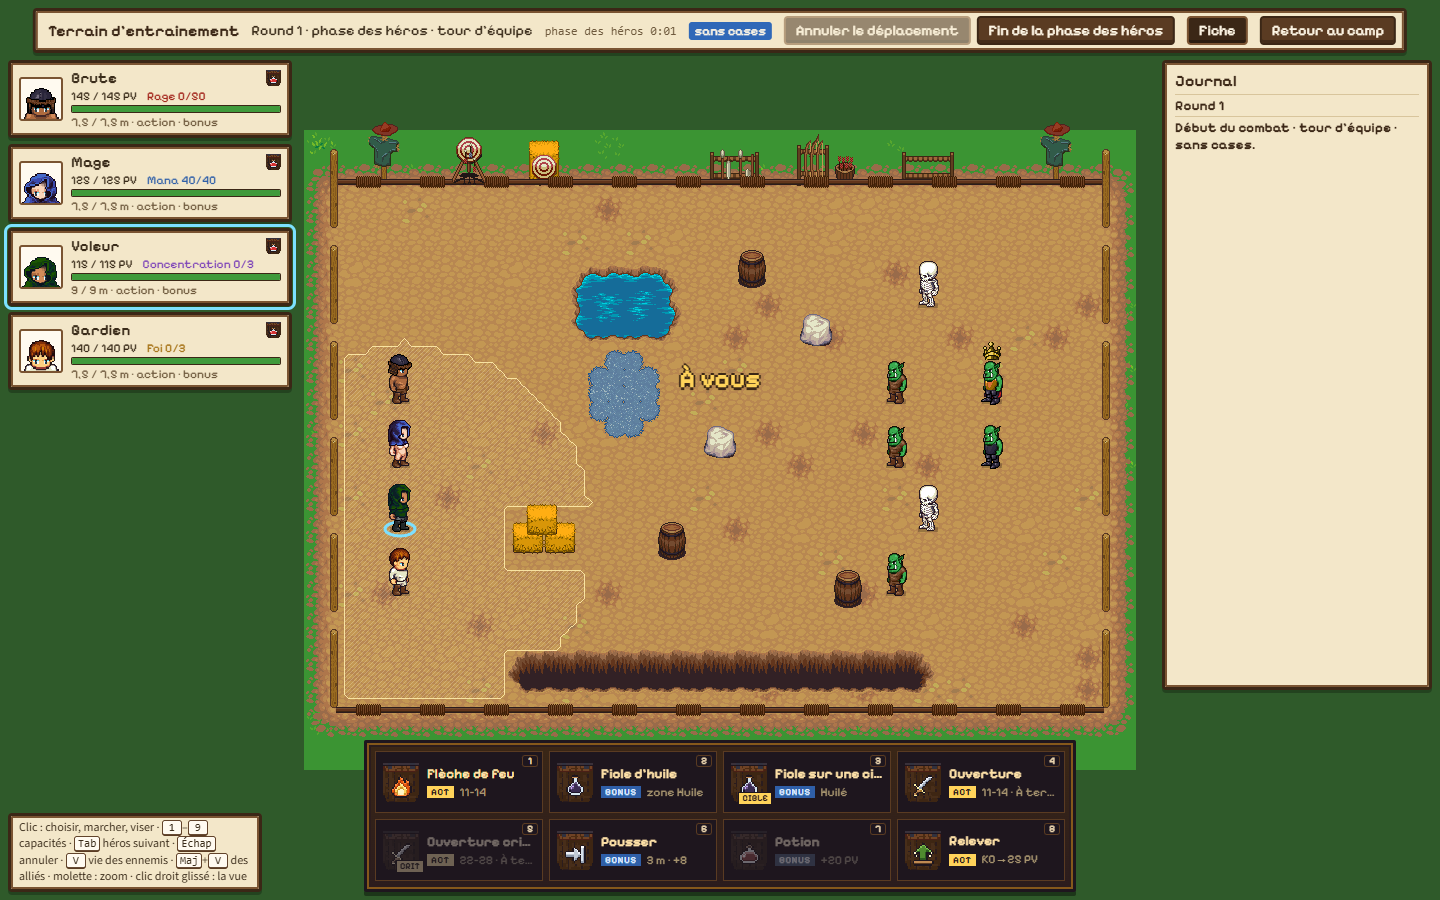
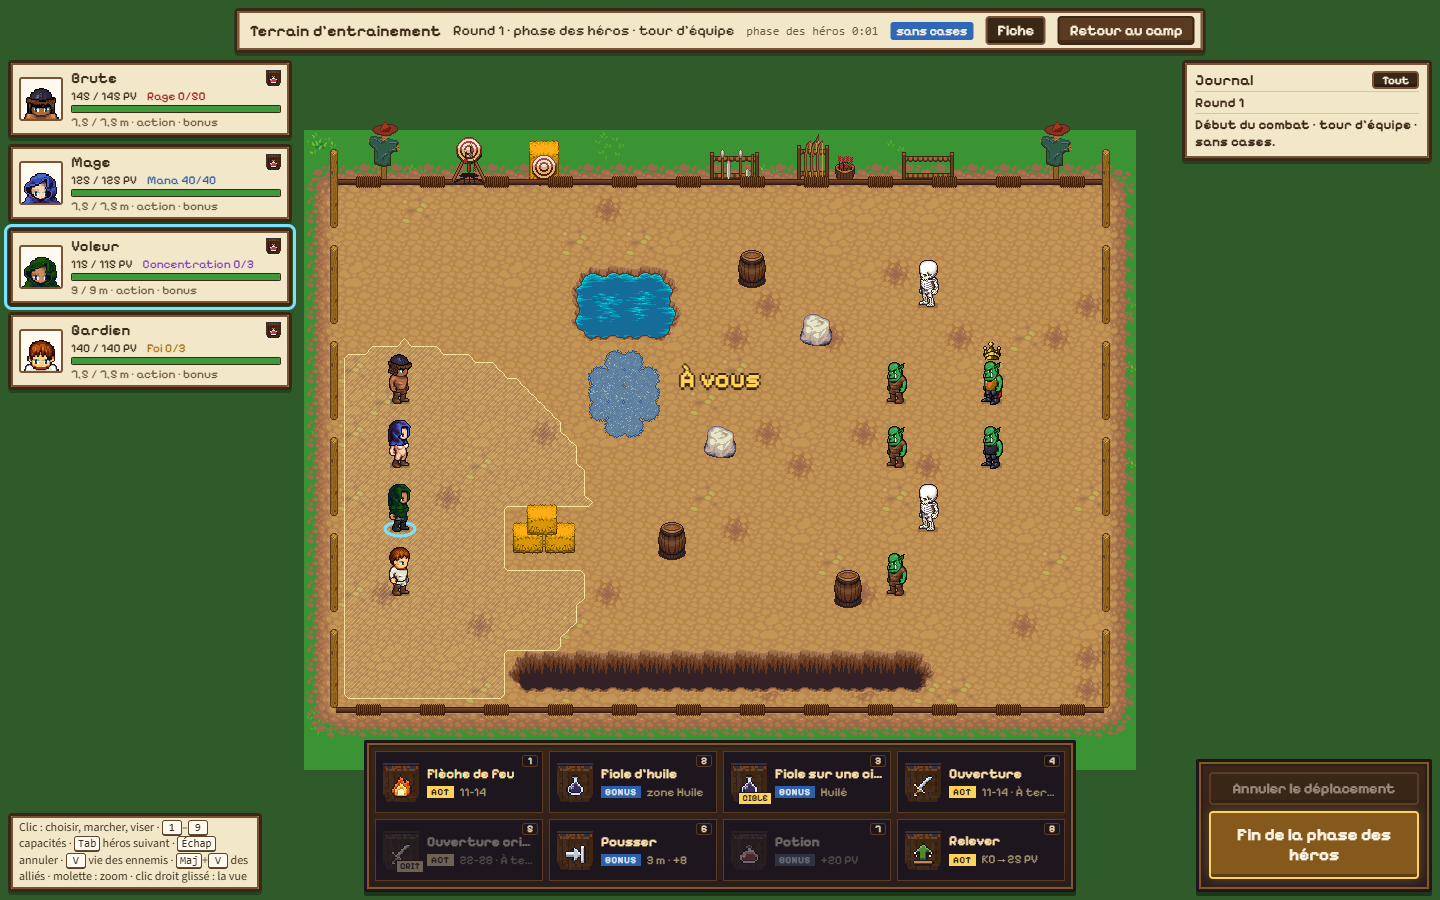
UI de combat : la fin de la phase en bas à droite, un journal plus court
« Fin de la phase des héros » (« Je suis prêt » à plusieurs) et « Annuler le
déplacement » quittent le bandeau pour un coin en bois sombre, en bas à
droite. Le journal, en haut à droite, ne montre que ses 6 dernières lignes ;
« Tout » le déplie. Captures refaites.

diff --git a/src/entrainement/interface.js b/src/entrainement/interface.js
@@ -56,14 +56,19 @@ function construire() {
     dom.etat = el('span', { class: 'etat-terrain' }, 'Prêt'),
     dom.chrono = el('span', { class: 'chrono' }),
     el('span', { class: 'sans-cases', title: 'FIGHT_RULES.md, « On trial » : chaque classe a une distance max par tour' }, 'sans cases'),
-    el('span', { class: 'boutons-phase' },
-      dom.annuler = el('button', { type: 'button', class: 'bouton-jeu discret', onclick: annuler, title: 'Annuler le dernier déplacement (sans dé)' }, 'Annuler le déplacement'),
-      dom.finPhase = el('button', { type: 'button', class: 'bouton-jeu', id: 'fin-phase', onclick: finPhase }, 'Fin de la phase des héros')),
     dom.boutonFiche = el('button', { type: 'button', class: 'bouton-jeu discret', onclick: () => montrerFin(true) }, 'Fiche'),
     el('a', { class: 'bouton-jeu retour-camp', id: 'retour-camp', href: RETOUR_CAMP }, 'Retour au camp'));
   dom.equipe = el('aside', { class: 'equipe-terrain', 'aria-label': 'Les héros' });
+  // le journal, en haut à droite : les dernières lignes ; « Tout » le déplie
   dom.droite = el('aside', { class: 'droite-terrain' },
-    el('section', { class: 'journal-terrain plaque' }, el('h2', {}, 'Journal'), dom.journal = el('ol', {})));
+    dom.journalCadre = el('section', { class: 'journal-terrain plaque' },
+      el('header', {}, el('h2', {}, 'Journal'),
+        dom.journalTout = el('button', { type: 'button', class: 'bouton-jeu discret petit', 'aria-expanded': 'false', onclick: basculerJournal }, 'Tout')),
+      dom.journal = el('ol', {})));
+  // en bas à droite : finir la phase (« Je suis prêt » à plusieurs), et annuler le dernier déplacement
+  dom.coin = el('div', { class: 'coin-phase bois' },
+    dom.annuler = el('button', { type: 'button', class: 'bouton-jeu discret', onclick: annuler, title: 'Annuler le dernier déplacement (sans dé)' }, 'Annuler le déplacement'),
+    dom.finPhase = el('button', { type: 'button', class: 'bouton-jeu', id: 'fin-phase', onclick: finPhase }, 'Fin de la phase des héros'));
   // en bas : la fiche de la capacité (choisie, ou survolée dans la barre), au-dessus de la barre des capacités
   dom.bas = el('div', { class: 'bas-terrain' },
     dom.ficheCap = el('section', { class: 'fiche-capacite bois', hidden: true, 'aria-live': 'polite' }),
@@ -104,7 +109,7 @@ function construire() {
       dom.continuer = el('button', { type: 'button', class: 'bouton-jeu discret', onclick: () => { dom.fin.hidden = true; } }, 'Revenir au combat'),
       dom.rejouer = el('button', { type: 'button', class: 'bouton-jeu discret', onclick: rejouer }, 'Rejouer'),
       el('a', { class: 'bouton-jeu discret retour-camp', href: RETOUR_CAMP }, 'Retour au camp'))));
-  document.body.append(dom.haut, dom.equipe, dom.droite, dom.bas, dom.de, dom.banniere, dom.info, dom.distance, dom.aide, dom.accueil, dom.fin);
+  document.body.append(dom.haut, dom.equipe, dom.droite, dom.bas, dom.coin, dom.de, dom.banniere, dom.info, dom.distance, dom.aide, dom.accueil, dom.fin);
   // à plusieurs, « Retour au camp » passe par multi.js : l'hôte y emmène tout le groupe
   document.addEventListener('click', (e) => { const a = e.target.closest?.('a.retour-camp'); if (a && reseau) { e.preventDefault(); reseau.partirAuCamp(); } });
   dessinerPlaces();
@@ -446,8 +451,16 @@ function dessinerTout() {
     dom.finPhase.textContent = S.phase !== 'heros' ? 'Fin de la phase des héros' : !moi ? `Les autres jouent (${prets}/${attendus.length} prêts)`
       : reseau.estPret() ? `Prêt ✓ (${prets}/${attendus.length}) : je rejoue` : `Je suis prêt (${prets}/${attendus.length})`;
   }
-  // le journal
-  dom.journal.replaceChildren(...S.journal.slice(0, 60).map((l) => el('li', { class: l.c }, l.t)));
+  // le journal : les 6 dernières lignes, ou les 60 dernières une fois déplié
+  dom.journal.replaceChildren(...S.journal.slice(0, ui.journalTout ? 60 : 6).map((l) => el('li', { class: l.c }, l.t)));
+  dom.coin.hidden = S.phase === 'preparation';
+}
+function basculerJournal() {
+  ui.journalTout = !ui.journalTout;
+  dom.journalCadre.classList.toggle('deplie', ui.journalTout);
+  dom.journalTout.textContent = ui.journalTout ? 'Moins' : 'Tout';
+  dom.journalTout.setAttribute('aria-expanded', String(ui.journalTout));
+  ui.sale = true;
 }
 
 // --- Le d20 en grand, les bannières, la fin ------------------------------------------------------------------------

diff --git a/src/entrainement/entrainement.css b/src/entrainement/entrainement.css
@@ -55,11 +55,15 @@ kbd { display: inline-block; min-width: 1.1em; padding: 0 3px; border: 1px solid
 .jauge > span.bas { background: #d8742c; }
 
 /* le journal, à droite */
-.droite-terrain { position: fixed; right: 8px; top: 60px; bottom: 210px; z-index: 8; width: 270px; display: grid; grid-template-rows: minmax(0, 1fr); }
+/* le journal, en haut à droite : court (les 6 dernières lignes), « Tout » le déplie */
+.droite-terrain { position: fixed; right: 8px; top: 60px; z-index: 8; width: 250px; display: grid; }
 .droite-terrain .plaque { position: static; padding: 8px 10px; min-height: 0; }
-.journal-terrain { overflow: hidden; display: grid; grid-template-rows: auto 1fr; }
-.journal-terrain h2 { font-size: 1rem; }
-.journal-terrain ol { margin: 0; padding: 0; list-style: none; overflow: auto; font-size: 12px; display: grid; align-content: start; gap: 2px; }
+.journal-terrain { overflow: hidden; display: grid; grid-template-rows: auto 1fr; gap: 2px; }
+.journal-terrain header { display: flex; align-items: center; justify-content: space-between; }
+.journal-terrain h2 { margin: 0; font-size: .95rem; }
+.journal-terrain .bouton-jeu.petit { font-size: .72rem; padding: 0 8px; }
+.journal-terrain ol { margin: 0; padding: 0; list-style: none; overflow: auto; max-height: 132px; font-size: 12px; display: grid; align-content: start; gap: 2px; }
+.journal-terrain.deplie ol { max-height: min(56vh, calc(100vh - 360px)); }
 .journal-terrain li.round { font: 700 .85rem var(--titre); color: var(--bois-fonce); border-top: 1px solid #d8c59c; padding-top: 2px; }
 .journal-terrain li.combo { color: #1d5fa8; font-weight: 700; } .journal-terrain li.bon { color: #2c7a2a; }
 .journal-terrain li.mauvais { color: #a3261c; } .journal-terrain li.ennemi { color: #7a3a2a; } .journal-terrain li.muet { color: var(--parchemin-doux); }
@@ -125,7 +129,11 @@ kbd { display: inline-block; min-width: 1.1em; padding: 0 3px; border: 1px solid
 .cc-role { font: 400 12.5px/1.35 var(--texte); color: #e9d3ad; }
 .carte-cible .effet { font-size: 11.5px; padding: 2px 6px; }
 
-.boutons-phase { display: flex; gap: 6px; }
+/* en bas à droite : finir la phase, et annuler le dernier déplacement */
+.coin-phase { position: fixed; right: 8px; bottom: 8px; z-index: 9; display: flex; flex-direction: column; align-items: stretch; gap: 6px; padding: 10px; width: 236px; box-sizing: border-box; }
+.coin-phase .bouton-jeu { font-size: .9rem; padding: 6px 10px; }
+.coin-phase #fin-phase { font: 700 1.05rem var(--titre); padding: 12px 10px; background: #85581b; border-color: #ffd35a; box-shadow: inset 0 -3px 0 rgba(0,0,0,.3), 0 0 12px rgba(255, 211, 90, .25); }
+.coin-phase #fin-phase:disabled { box-shadow: none; border-color: var(--bois-fonce); }
 .bouton-jeu:disabled { opacity: .5; cursor: not-allowed; filter: none; }
 
 /* le d20 en grand, les bannières, le survol */
@@ -173,7 +181,7 @@ kbd { display: inline-block; min-width: 1.1em; padding: 0 3px; border: 1px solid
 
 @media (max-width: 1280px) { .bas-terrain { max-width: calc(100vw - 16px); } .aide-terrain { display: none; } }
 @media (max-width: 900px) {
-  .equipe-terrain { width: 200px; } .droite-terrain { width: 200px; } .fiche-heros .fh-chiffres { flex-wrap: wrap; gap: 0 8px; }
+  .equipe-terrain { width: 200px; } .droite-terrain { width: 200px; } .coin-phase { width: 200px; } .fiche-heros .fh-chiffres { flex-wrap: wrap; gap: 0 8px; }
 }
 
 /* le choix de l'équipe, à l'accueil (#76) */
@@ -203,7 +211,7 @@ kbd { display: inline-block; min-width: 1.1em; padding: 0 3px; border: 1px solid
 .attente-lobby { margin: 0; color: var(--parchemin-doux); font-size: 13px; }
 .fiche-heros .fh-joueur { justify-self: start; font: 700 .72rem var(--titre); color: #fff7e6; background: var(--couleur, var(--bois)); border-radius: 3px; padding: 0 5px; }
 .fiche-heros.ami { cursor: default; }
-#fin-phase.pret { background: #4f7a2e; }
+#fin-phase.pret, .coin-phase #fin-phase.pret { background: #4f7a2e; }
 .curseurs-amis { position: fixed; inset: 0; pointer-events: none; z-index: 7; overflow: hidden; }
 .curseur-ami { position: absolute; left: 0; top: 0; white-space: nowrap; font: 700 12px var(--titre); color: #fff; padding: 1px 6px 1px 12px;
   background: color-mix(in srgb, var(--couleur, #7ce0ff) 78%, #000); border-radius: 0 4px 4px 4px; text-shadow: 0 1px 0 rgba(0,0,0,.5); }
